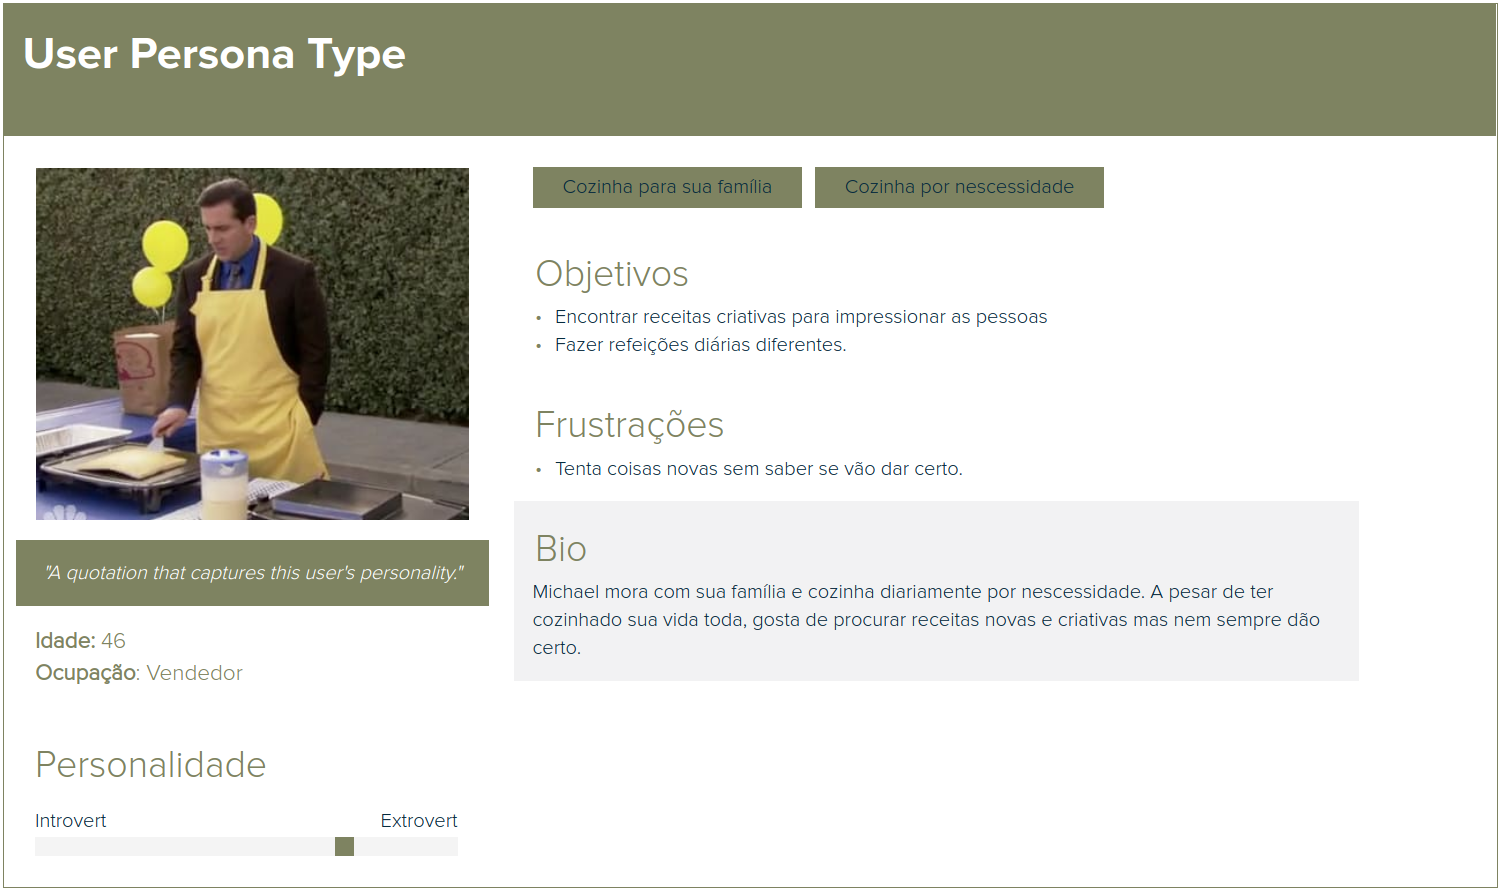
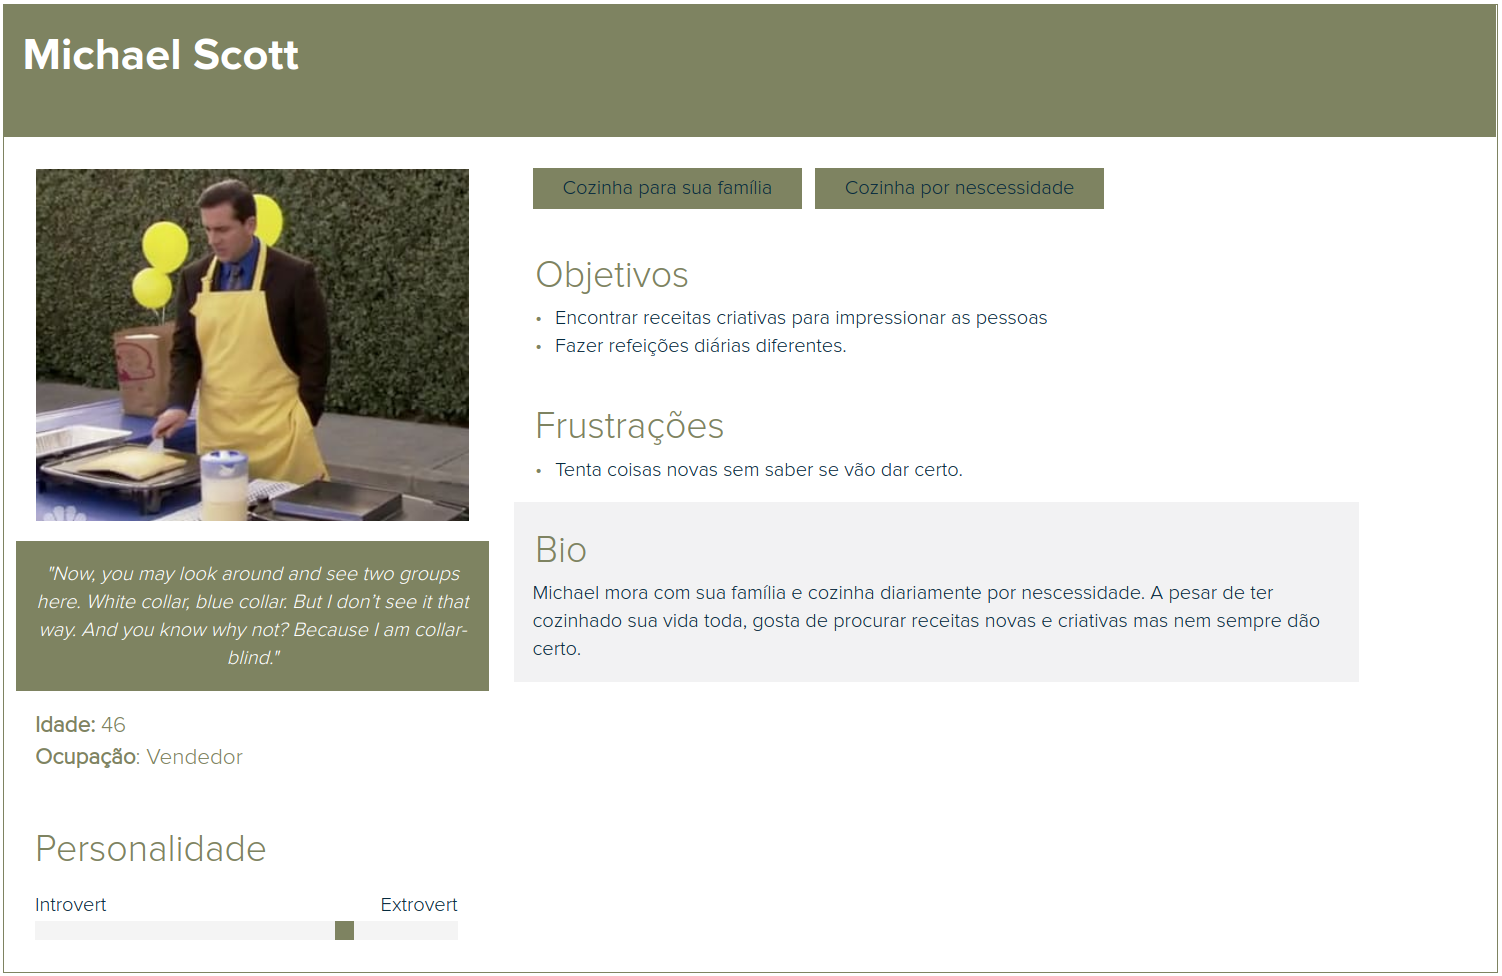
[#22] Adding michael and spencer requirements

diff --git a/docs/personas.md b/docs/personas.md
@@ -4,6 +4,18 @@
 | ---- | ---- | ----- | --------- |
 | 2020/09/08 | 0.1 | Luís Henrique Pereira Taira | Spencer Shay |
 | 2020/09/08 | 0.2 | Luís Henrique Pereira Taira | Michael Scott |
+| 2020/09/08 | 0.3 | Luís Henrique Pereira Taira | Requisitos levantados do Michael e Spencer |
+
+## Requisitos Elicitados
+
+| Código | Descrição |
+| --- | ---------- |
+| RF21 | O usuário deve poder adicionar alternativas para ingredientes em suas receitas. |
+| RF22 | O usuário deve poder ver altertnativas para ingredientes em receitas |
+| RF23 | O usuário deve poder saber o quão saudável é uma receita. |
+| RF24 | O usuário deve poder ver opiniões de outros usuários sobre receitas. |
+| RF25 | O usuário deve poder deixar opinião em receitas. |
+| RNF06 | O sistema deve fornecer receitas relevantes para cada usuário |
 
 ## Persona 1
 <img src="../images/personas/spencer.png">
